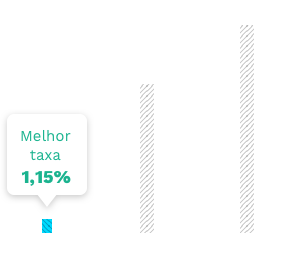
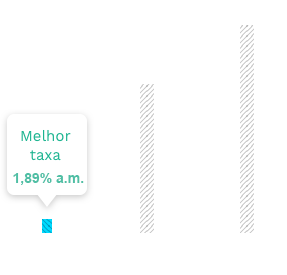
ajuste-taxa-gráfico
ajuste-taxa-gráfico

Changed region(s): [[0.0557, 0.6109, 0.2787, 0.6691]]

diff --git a/index.html b/index.html
@@ -239,7 +239,7 @@
               </div>
               <div class="modal-body">
                 <h3><strong>Temos algumas opções para você!</strong></h3>
-				<h3>Esses são os valores das parcelas para cada tipo de emprestimo</h3>
+				<h3>A Creditas tem Juros de <strong> 1,89% a.m </strong> - O menor do mercado!</h3>
 				<div class="resultado" id="resultado">
                 <p class="calc-result"><strong style="color:green">Creditas: R$ </strong><span style="color:green" id="parcel-creditas"></span></p>
                 <p class="calc-result"><strong>Crédito Pessoal:</strong> <span style="color:#a00000"> R$</span> <span  style="color:#a00000" id="parcel-cp"></span> <img src="arrow_glossy_up_red.png" height="20" width="15"></p>
